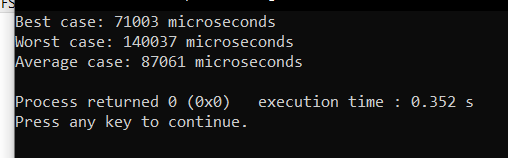
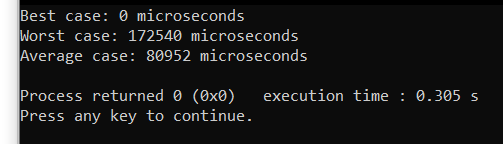
assignment 6 modified

Changed region(s): [[0.0, 0.0, 0.6262, 1.0], [0.507, 0.5833, 0.9543, 0.7222]]

diff --git a/assignment6/index.cpp b/assignment6/index.cpp
@@ -52,7 +52,7 @@ int main() {
     mt19937 gen(rd());
     uniform_int_distribution<> dis(1, 1000000);
     for (int i = 0; i < SIZE; i++) {
-        arr[i] = dis(gen);
+        arr[i] = i;
     }
 
     // Best case
